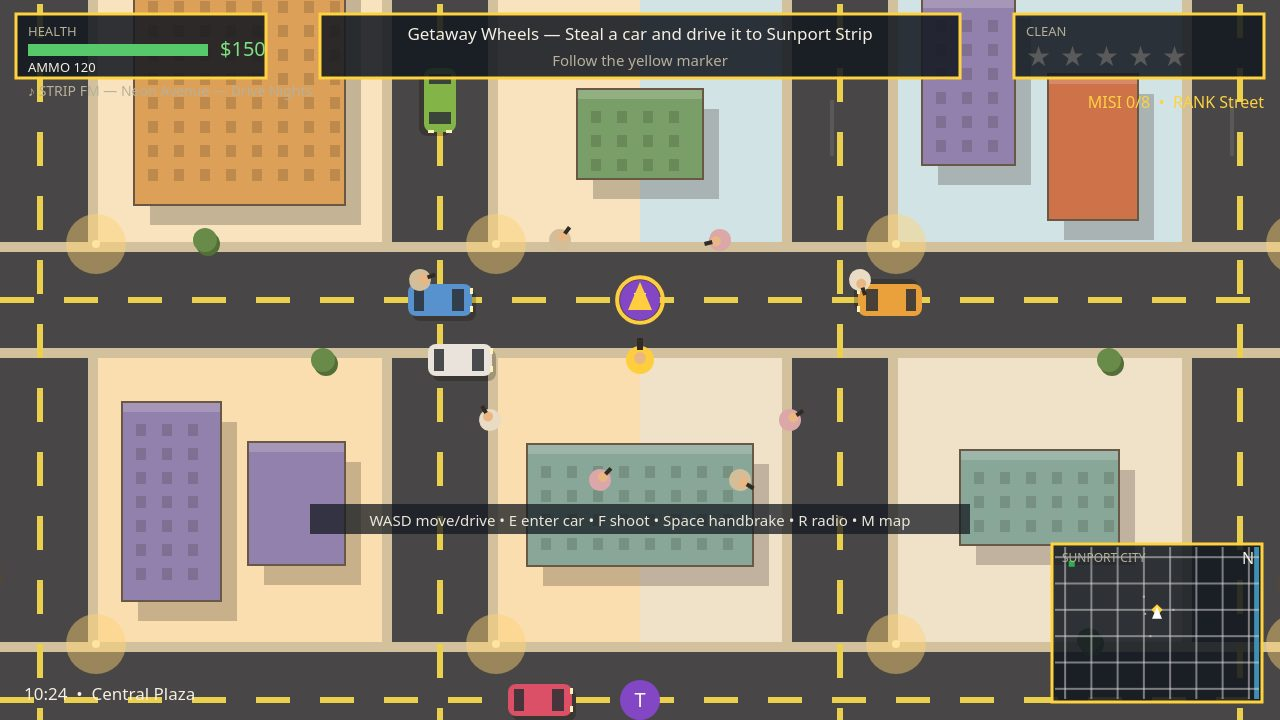
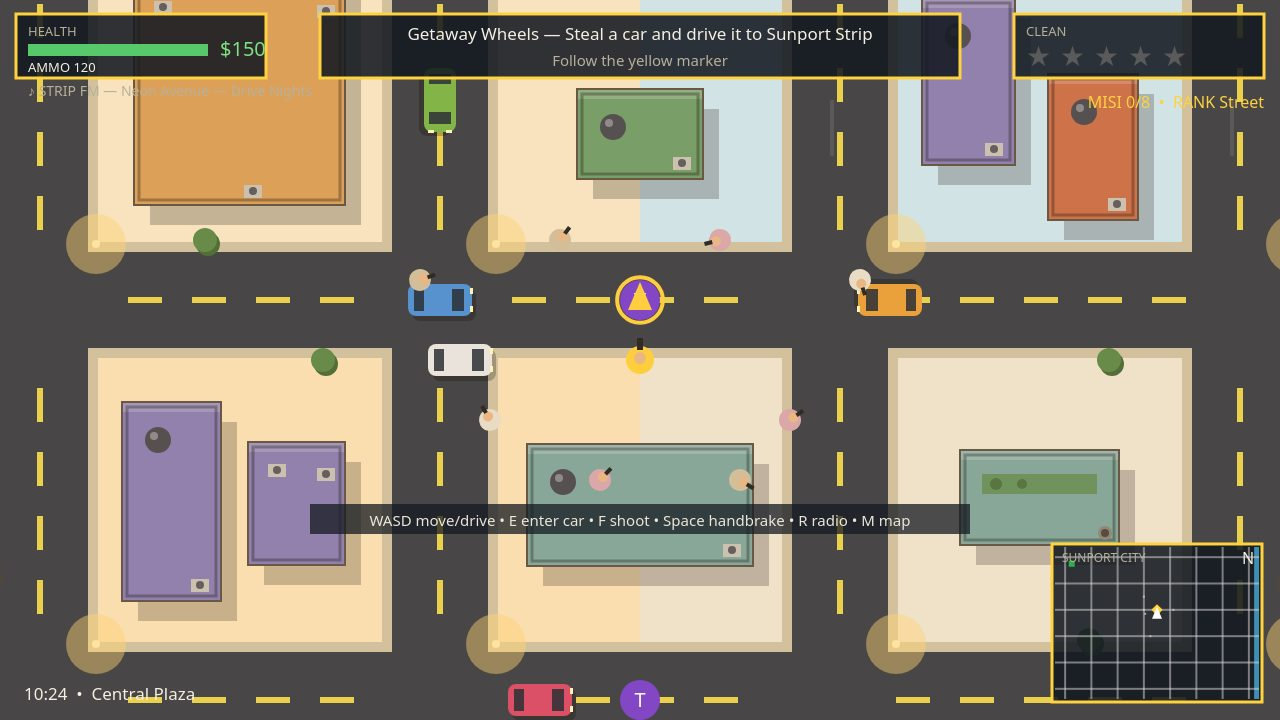
Sunport City fix: flat intersections, synced center lines, rear-end crash FX, rooftops

diff --git a/game/src/render.js b/game/src/render.js
@@ -51,6 +51,35 @@ export function createRenderer(canvas) {
     context.closePath();
   }
 
+  /** A stable per-building number from its position, for rooftop details. */
+  function roofHash(b) {
+    let h = (b.x * 374761393 + b.y * 668265263 + b.w * 974634211 + b.h * 1274126177) | 0;
+    h = Math.imul(h ^ (h >>> 13), 1274126177);
+    return (h ^ (h >>> 16)) >>> 0;
+  }
+
+  /** A rooftop AC unit: a pale box with a dark fan dot. */
+  function roofAC(x, y) {
+    context.fillStyle = '#c8c4b8';
+    context.fillRect(x, y, 18, 13);
+    context.fillStyle = '#5a5a60';
+    context.beginPath();
+    context.arc(x + 9, y + 6, 4, 0, Math.PI * 2);
+    context.fill();
+  }
+
+  /** A small rooftop vent: a dark pipe with a lighter rim. */
+  function roofVent(x, y) {
+    context.fillStyle = '#8a8578';
+    context.beginPath();
+    context.arc(x, y, 7, 0, Math.PI * 2);
+    context.fill();
+    context.fillStyle = '#4a463e';
+    context.beginPath();
+    context.arc(x, y, 4, 0, Math.PI * 2);
+    context.fill();
+  }
+
   function drawGround(state) {
     const city = state.city;
     // District ground tints.
@@ -66,27 +95,43 @@ export function createRenderer(canvas) {
     // Beach strip.
     context.fillStyle = PALETTE.sand;
     context.fillRect(city.water.x - 26, 0, 26, WORLD.height);
-    // Roads: sidewalk border, then asphalt, then centre dashes.
+    // Roads: vertical roads run full-length (the spine); horizontal roads
+    // are drawn only between vertical roads, so an intersection is one
+    // flat asphalt square — no sidewalk band or lane line crossing it.
+    // The old full-length strips made intersections read as two stacked
+    // roads, and the crossing dashes piled up on each other.
+    const half = ROAD.width / 2;
+    const sw = half + 10;
     for (const vx of city.lines.vertical) {
       context.fillStyle = PALETTE.sidewalk;
-      context.fillRect(vx - ROAD.width / 2 - 10, 0, ROAD.width + 20, WORLD.height);
+      context.fillRect(vx - sw, 0, ROAD.width + 20, WORLD.height);
       context.fillStyle = PALETTE.road;
-      context.fillRect(vx - ROAD.width / 2, 0, ROAD.width, WORLD.height);
+      context.fillRect(vx - half, 0, ROAD.width, WORLD.height);
     }
+    const edges = [0, ...city.lines.vertical, WORLD.width];
     for (const hy of city.lines.horizontal) {
-      context.fillStyle = PALETTE.sidewalk;
-      context.fillRect(0, hy - ROAD.width / 2 - 10, WORLD.width, ROAD.width + 20);
-      context.fillStyle = PALETTE.road;
-      context.fillRect(0, hy - ROAD.width / 2, WORLD.width, ROAD.width);
+      for (let i = 0; i < edges.length - 1; i += 1) {
+        const x0 = edges[i] === 0 ? 0 : edges[i] + half;
+        const x1 = edges[i + 1] === WORLD.width ? WORLD.width : edges[i + 1] - half;
+        if (x1 - x0 < 8) continue;
+        context.fillStyle = PALETTE.sidewalk;
+        context.fillRect(x0, hy - sw, x1 - x0, ROAD.width + 20);
+        context.fillStyle = PALETTE.road;
+        context.fillRect(x0, hy - half, x1 - x0, ROAD.width);
+      }
     }
+    // Centre dashes: one shared 64 px pattern per road, but a dash never
+    // enters an intersection, so dashes from crossing roads never overlap.
     context.fillStyle = PALETTE.roadLine;
     for (const vx of city.lines.vertical) {
       for (let y = 0; y < WORLD.height; y += 64) {
+        if (city.lines.horizontal.some((hy) => y + 34 > hy - half - 4 && y < hy + half + 4)) continue;
         context.fillRect(vx - 3, y, 6, 34);
       }
     }
     for (const hy of city.lines.horizontal) {
       for (let x = 0; x < WORLD.width; x += 64) {
+        if (city.lines.vertical.some((vx) => x + 34 > vx - half - 4 && x < vx + half + 4)) continue;
         context.fillRect(x, hy - 3, 34, 6);
       }
     }
@@ -141,12 +186,48 @@ export function createRenderer(canvas) {
       context.strokeStyle = PALETTE.buildingEdge;
       context.lineWidth = 2;
       context.strokeRect(b.x, b.y, b.w, b.h);
-      if (b.height >= 2) {
-        context.fillStyle = 'rgba(0,0,0,0.15)';
-        for (let wy = b.y + 22; wy < b.y + b.h - 12; wy += 24) {
-          for (let wx = b.x + 14; wx < b.x + b.w - 12; wx += 26) {
-            context.fillRect(wx, wy, 10, 12);
-          }
+      // Rooftops, seen from above: a parapet edge and rooftop kit (AC units,
+      // vents, skylights, a water tank or a garden) — never windows. The old
+      // window grid on the top face made the buildings read as if their
+      // windows faced the sky; from above you only ever see a roof.
+      context.strokeStyle = 'rgba(0,0,0,0.30)';
+      context.lineWidth = 3;
+      context.strokeRect(b.x + 5, b.y + 5, b.w - 10, b.h - 10);
+      if (b.w > 70 && b.h > 60) {
+        const rh = roofHash(b);
+        const kind = b.height >= 3 ? 2 : rh % 4;
+        const ix = b.x + 14;
+        const iy = b.y + 16;
+        if (kind === 0) {
+          roofAC(ix + 6, iy + 6);
+          roofAC(ix + b.w - 42, iy + 10);
+          if (b.w > 140) roofAC(ix + Math.floor(b.w / 2) - 9, iy + b.h - 36);
+        } else if (kind === 1) {
+          context.fillStyle = 'rgba(190, 220, 235, 0.85)';
+          context.fillRect(ix + 8, iy + 8, 26, 18);
+          context.fillRect(ix + b.w - 48, iy + b.h - 36, 26, 18);
+          roofVent(ix + Math.floor(b.w / 2), iy + Math.floor(b.h / 2));
+        } else if (kind === 2) {
+          context.fillStyle = '#4a4a52';
+          context.beginPath();
+          context.arc(ix + 22, iy + 22, 13, 0, Math.PI * 2);
+          context.fill();
+          context.fillStyle = 'rgba(255,255,255,0.35)';
+          context.beginPath();
+          context.arc(ix + 18, iy + 18, 4, 0, Math.PI * 2);
+          context.fill();
+          roofAC(ix + b.w - 44, iy + b.h - 38);
+        } else {
+          context.fillStyle = 'rgba(93, 138, 74, 0.75)';
+          context.fillRect(ix + 8, iy + 8, Math.max(30, b.w - 44), 20);
+          context.fillStyle = 'rgba(71, 107, 57, 0.8)';
+          context.beginPath();
+          context.arc(ix + 22, iy + 18, 6, 0, Math.PI * 2);
+          context.fill();
+          context.beginPath();
+          context.arc(ix + 48, iy + 18, 5, 0, Math.PI * 2);
+          context.fill();
+          roofVent(ix + b.w - 28, iy + b.h - 28);
         }
       }
     }
@@ -200,6 +281,18 @@ export function createRenderer(canvas) {
     } else if (car.health < 55) {
       context.fillStyle = 'rgba(0,0,0,0.2)';
       context.fillRect(-car.length / 2, -car.width / 2, car.length / 2, car.width);
+    }
+    // A fresh hit flashes white on the car, so a rear-end ram is visible.
+    if (car.flash > 0) {
+      context.globalAlpha = Math.min(0.55, car.flash * 2);
+      context.fillStyle = '#ffffff';
+      roundRect(-car.length / 2, -car.width / 2, car.length, car.width, 8);
+      context.fill();
+      context.globalAlpha = 1;
+      context.strokeStyle = '#ff5a3c';
+      context.lineWidth = 2;
+      roundRect(-car.length / 2, -car.width / 2, car.length, car.width, 8);
+      context.stroke();
     }
     context.restore();
   }
@@ -317,6 +410,23 @@ export function createRenderer(canvas) {
     for (const pt of state.particles) {
       const alpha = Math.max(0, pt.life / pt.maxLife);
       context.globalAlpha = alpha;
+      if (pt.kind === 'star') {
+        // A 4-point impact star: bright, so a crash reads in a still frame.
+        context.strokeStyle = pt.color;
+        context.lineWidth = 3;
+        const s = pt.size;
+        context.beginPath();
+        context.moveTo(pt.x - s, pt.y);
+        context.lineTo(pt.x + s, pt.y);
+        context.moveTo(pt.x, pt.y - s);
+        context.lineTo(pt.x, pt.y + s);
+        context.stroke();
+        context.fillStyle = pt.color;
+        context.beginPath();
+        context.arc(pt.x, pt.y, s * 0.35, 0, Math.PI * 2);
+        context.fill();
+        continue;
+      }
       context.fillStyle = pt.color;
       context.beginPath();
       context.arc(pt.x, pt.y, pt.size * (pt.kind === 'smoke' ? 1 + (1 - alpha) : 1), 0, Math.PI * 2);

diff --git a/game/src/vehicles.js b/game/src/vehicles.js
@@ -19,6 +19,7 @@ export function createCar(kind, x, y, angle, color, options) {
     driver: opt.driver || (kind === 'traffic' ? 'ai' : 'none'),
     ai: opt.ai || null,
     smokeTimer: 0, dead: false, honkTimer: 0,
+    flash: 0, lastCrashFx: -10,
   };
 }
 
@@ -140,6 +141,63 @@ export function spawnSparks(state, x, y, count) {
       life: 0.3, maxLife: 0.3, size: 3,
       color: '#ffd23f', kind: 'spark',
     });
+  }
+}
+
+/**
+ * A rear-end hit, made visible: sparks and a star burst at the contact
+ * point, a smoke puff, a white flash on the hit car, a screen shake and a
+ * jolt forward. Cooled down per car so a stuck pair does not strobe.
+ */
+export function spawnCrashFx(state, hitCar, fromCar) {
+  if (state.time - (hitCar.lastCrashFx || -10) < 0.5) return;
+  hitCar.lastCrashFx = state.time;
+  // Contact point: between the two cars, at the hit car's rear bumper.
+  const rearX = hitCar.x - Math.cos(hitCar.angle) * (hitCar.length / 2);
+  const rearY = hitCar.y - Math.sin(hitCar.angle) * (hitCar.length / 2);
+  const cx = (rearX + fromCar.x) / 2;
+  const cy = (rearY + fromCar.y) / 2;
+  spawnSparks(state, cx, cy, 12);
+  for (let i = 0; i < 3; i += 1) {
+    const a = state.rng() * Math.PI * 2;
+    state.particles.push({
+      x: cx, y: cy,
+      vx: Math.cos(a) * 120, vy: Math.sin(a) * 120,
+      life: 0.45, maxLife: 0.45, size: 6 + state.rng() * 4,
+      color: '#fff3a0', kind: 'star',
+    });
+  }
+  spawnSmoke(state, cx, cy, 6);
+  hitCar.flash = 0.3;
+  fromCar.flash = 0.15;
+  addShake(state, 8);
+  // Jolt: the hit car is shoved forward in the direction it faces.
+  hitCar.speed = (hitCar.speed || 0) + 50;
+  hitCar.x += Math.cos(hitCar.angle) * 6;
+  hitCar.y += Math.sin(hitCar.angle) * 6;
+}
+
+/**
+ * Car-on-car contact with a visible rear-end effect: when one car runs
+ * into the back of another, the struck car gets sparks, smoke, a flash and
+ * a jolt. Side and head-on contact just pushes the cars apart, as before,
+ * with a few sparks on a hard knock.
+ */
+export function handleCarCollision(state, a, b) {
+  const hard = collideCars(a, b);
+  if (!hard) return;
+  // Is b behind a (a was rear-ended by b)?
+  const dx = b.x - a.x;
+  const dy = b.y - a.y;
+  const d = Math.hypot(dx, dy) || 1;
+  const behindA = (dx / d) * Math.cos(a.angle) + (dy / d) * Math.sin(a.angle);
+  const behindB = (-dx / d) * Math.cos(b.angle) + (-dy / d) * Math.sin(b.angle);
+  if (behindA < -0.6 && b.speed > a.speed + 40) {
+    spawnCrashFx(state, a, b);
+  } else if (behindB < -0.6 && a.speed > b.speed + 40) {
+    spawnCrashFx(state, b, a);
+  } else {
+    spawnSparks(state, (a.x + b.x) / 2, (a.y + b.y) / 2, 4);
   }
 }
 

diff --git a/game/src/shots.js b/game/src/shots.js
@@ -164,6 +164,8 @@ export function stageShot(name, state) {
   }
 
   // 'chase' (the cover): a 4-star police chase on the Strip, heli overhead.
+  // A police car rams the player's car from behind: bumpers touching,
+  // sparks and smoke at the contact point, flash on the player's car.
   state.cash = 480;
   state.wanted = 4;
   placePlayerCar(state, 1400, 1000, 0, 380);
@@ -172,9 +174,33 @@ export function stageShot(name, state) {
   const heli = createHelicopter(1520, 880, 0);
   heli.angle = Math.atan2(1000 - 880, 1400 - 1520);
   state.helis.push(heli);
-  addPoliceCar(state, 1230, 1000, 0, 430);
+  const rammer = addPoliceCar(state, 1336, 1000, 0, 430);
   addPoliceCar(state, 1300, 1075, 0, 410);
   state.police.push({ x: 1150, y: 940, angle: 0, speed: 250, hp: 40, holdTimer: 0 });
+  const cx = state.player.car.x - 32; // the player's rear bumper
+  const cy = state.player.car.y;
+  state.player.car.flash = 0.3;
+  rammer.flash = 0.15;
+  for (let i = 0; i < 10; i += 1) {
+    const a = (i / 10) * Math.PI * 2;
+    state.particles.push({
+      x: cx, y: cy, vx: Math.cos(a) * 160, vy: Math.sin(a) * 160,
+      life: 0.3, maxLife: 0.3, size: 3, color: '#ffd23f', kind: 'spark',
+    });
+  }
+  for (const [ox, oy] of [[-8, -6], [6, 4], [0, 8]]) {
+    state.particles.push({
+      x: cx + ox, y: cy + oy, vx: 0, vy: 0,
+      life: 0.45, maxLife: 0.45, size: 8, color: '#fff3a0', kind: 'star',
+    });
+  }
+  for (let i = 0; i < 5; i += 1) {
+    state.particles.push({
+      x: cx - 10 + i * 6, y: cy - 8 + (i % 2) * 12,
+      vx: 0, vy: -20, life: 0.9, maxLife: 0.9, size: 9,
+      color: 'rgba(120,120,120,0.55)', kind: 'smoke',
+    });
+  }
   addTrafficCar(state, 1620, 1000, 0, '#4a90d9');
   addTrafficCar(state, 1560, 1000, 0, '#e8a13c');
   addTrafficCar(state, 1180, 1400, Math.PI, '#7ab648');

diff --git a/game/src/police.js b/game/src/police.js
@@ -4,7 +4,7 @@
 // player is Busted. A police helicopter overhead keeps the player spotted.
 import { PALETTE, POLICE, WANTED } from './config.js';
 import { clamp, distance } from './random.js';
-import { createCar, steerToward, damageCar, spawnSparks } from './vehicles.js';
+import { createCar, steerToward, damageCar, spawnSparks, spawnCrashFx } from './vehicles.js';
 import { damagePlayer } from './player.js';
 import { nearestRoad, randomRoadPoint, resolveCircle } from './city.js';
 import { heliSeesPlayer } from './helicopter.js';
@@ -114,9 +114,15 @@ export function updatePolice(state, dt) {
           state.toast = { text: 'Your car is wrecked! Get out and run!', timer: 3 };
         }
       }
-      spawnSparks(state, car.x, car.y, 3);
+      if (!p.onFoot && p.car) {
+        // A police car ramming the player's car from behind: sparks, smoke,
+        // a flash on the player's car and a jolt — the hit must be visible.
+        spawnCrashFx(state, p.car, car);
+      } else {
+        spawnSparks(state, car.x, car.y, 3);
+        addShake(state, 7);
+      }
       state.audio.crash();
-      addShake(state, 7);
       car.speed *= 0.4;
       // Back off a little so the ram does not stick every frame.
       car.x -= Math.cos(car.angle) * 30;

diff --git a/game/src/traffic.js b/game/src/traffic.js
@@ -3,7 +3,7 @@
 // background life — and the cars the player steals.
 import { PALETTE, TRAFFIC } from './config.js';
 import { randomPick } from './random.js';
-import { collideCars, createCar, updateCarSmoke } from './vehicles.js';
+import { handleCarCollision, createCar, updateCarSmoke } from './vehicles.js';
 
 export function createTraffic(state) {
   const cars = [];
@@ -99,10 +99,11 @@ export function updateTraffic(state, dt) {
     updateCarSmoke(state, car, dt);
   }
   // Keep traffic from stacking on top of itself at intersections.
+  // A rear-end between two traffic cars now shows the crash effect.
   const moving = state.cars.filter((c) => c.kind === 'traffic' && c.health > 0);
   for (let i = 0; i < moving.length; i += 1) {
     for (let j = i + 1; j < moving.length; j += 1) {
-      collideCars(moving[i], moving[j]);
+      handleCarCollision(state, moving[i], moving[j]);
     }
   }
 }

diff --git a/game/src/main.js b/game/src/main.js
@@ -294,6 +294,10 @@ function runGame() {
       state.shake.timer -= STEP;
       if (state.shake.timer <= 0) state.shake = null;
     }
+    // Hit flashes fade out over a few frames.
+    for (const car of state.cars) {
+      if (car.flash > 0) car.flash = Math.max(0, car.flash - STEP);
+    }
     if (screen === SCREEN_TITLE) {
       // The title screen shows the living city, camera drifting over the Strip.
       updateTraffic(state, STEP);
